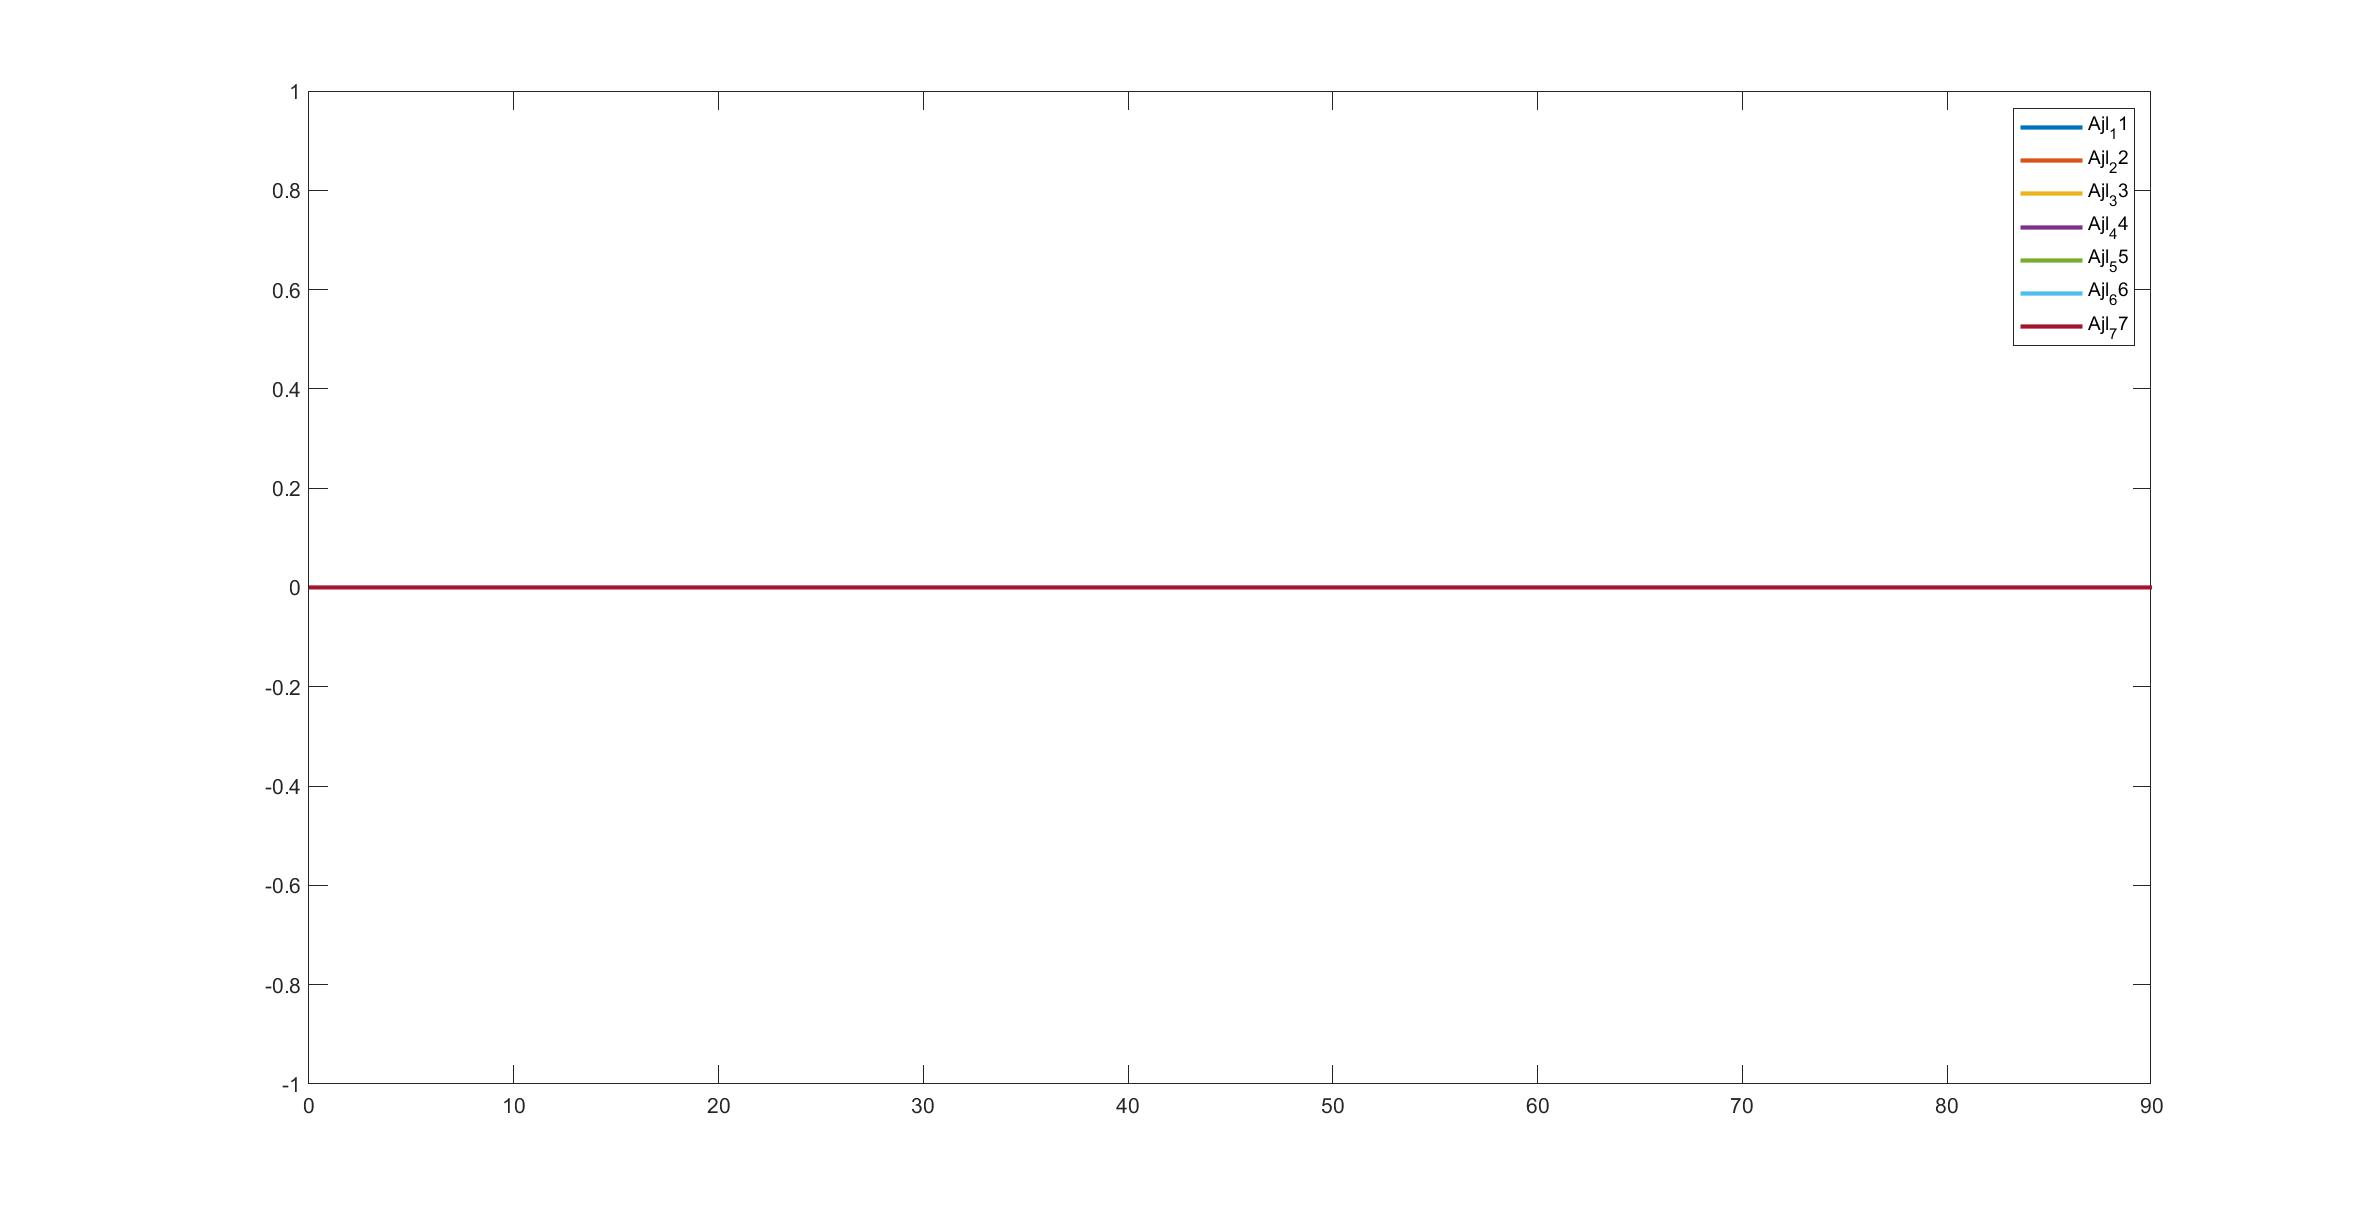
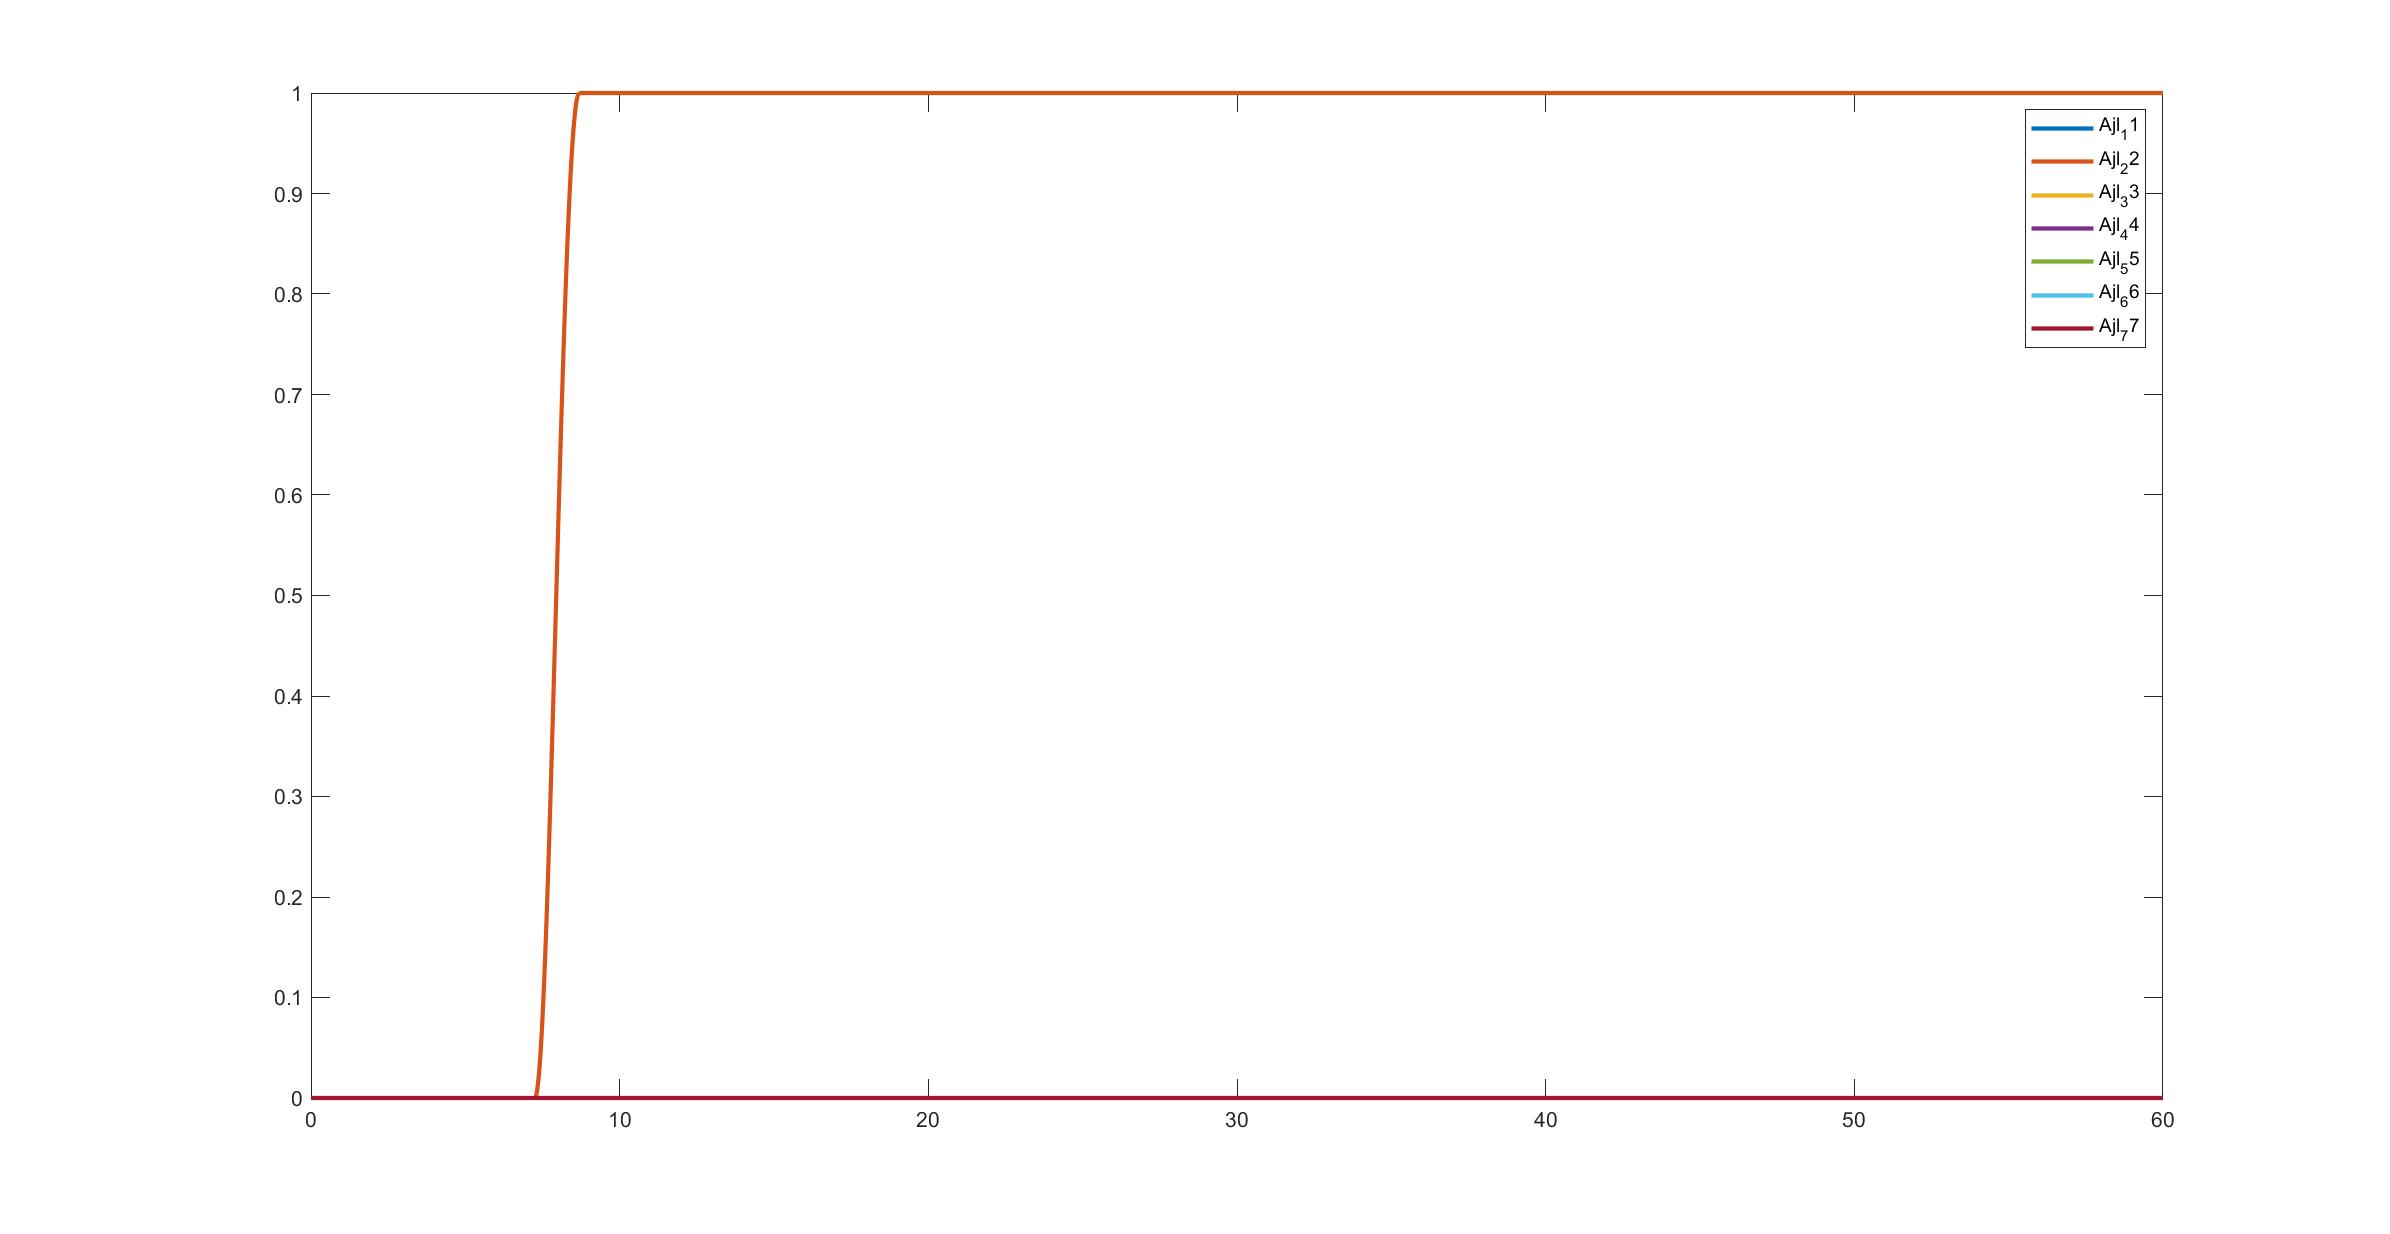
Ex5.2 added

Changed region(s): [[0.2178, 0.0624, 0.9024, 0.2808], [0.1245, 0.8736, 0.9024, 0.9048], [0.1245, 0.468, 0.9024, 0.4992]]

diff --git a/Cooperative_Matlab_Scripts/MainDexrov.m b/Cooperative_Matlab_Scripts/MainDexrov.m
@@ -6,7 +6,7 @@ close all
 
 % Simulation variables (integration and final time)
 deltat = 0.005;
-end_time = 15;
+end_time = 60;
 loop = 1;
 maxloops = ceil(end_time/deltat);
 
@@ -54,6 +54,11 @@ uvms.goalPosition = pipe_center + (pipe_radius + distanceGoalWrtPipe)*[0 0 1]';
 uvms.wRg = rotation(pi,0,0);
 uvms.wTg = [uvms.wRg uvms.goalPosition; 0 0 0 1];
 
+% Vehicle goal
+uvms.v_goalPosition=[pipe_center(1),pipe_center(2),pipe_center(3)+1.5]';
+uvms.wRgv = rotation(0,0,-pi/2);
+uvms.wTgv = [uvms.wRgv uvms.v_goalPosition; 0 0 0 1];
+
 % defines the tool control point
 uvms.eTt = eye(4);
 tic
@@ -70,10 +75,40 @@ for t = 0:deltat:end_time
     Qp = eye(13); 
     % add all the other tasks here!
     % the sequence of iCAT_task calls defines the priority
-    %[Qp, rhop] = iCAT_task(uvms.A.mu,   uvms.Jmu,   Qp, rhop, uvms.xdot.mu, 0.000001, 0.0001, 10);
-    [Qp, rhop] = iCAT_task(uvms.A.ha,   uvms.Jha,   Qp, rhop, uvms.xdot.ha, 0.0001,   0.01, 10);
-    [Qp, rhop] = iCAT_task(uvms.A.t,    uvms.Jt,    Qp, rhop, uvms.xdot.t,  0.0001,   0.01, 10);
+    
+
+
+    %% Joint limit control task (safety task)
+    [Qp, rhop] = iCAT_task(uvms.A.jl, uvms.J.jl, Qp, rhop, uvms.xdot.jl, 0.0001, 0.01, 10);
+
+
+
+    %% Minimum altitude control task (safety task)
+    [Qp, rhop] = iCAT_task(uvms.A.min_alt, uvms.Jalt, Qp, rhop, uvms.xdot.min_alt, 0.0001, 0.01, 10);
+
+    %% Horizontal Attitude control task (safety task)
+    [Qp, rhop] = iCAT_task(uvms.A.ha, uvms.Jha, Qp, rhop, uvms.xdot.ha, 0.0001, 0.01, 10);
+
+    %% "Safe Navigation action": Vehicle Position control task
+    [Qp, rhop] = iCAT_task(uvms.A.vang, uvms.Jvang, Qp, rhop, uvms.xdot.vang, 0.0001, 0.01, 10);
+    [Qp, rhop] = iCAT_task(uvms.A.vlin, uvms.Jvlin, Qp, rhop, uvms.xdot.vlin, 0.0001, 0.01, 10);
+
+    %% "Landing action" : Altitude control task
+    % control task to regulate the altitude to zero
+    %[Qp, rhop] = iCAT_task(uvms.A.alt_land, uvms.Jalt, Qp, rhop, uvms.xdot.alt_land, 0.0001, 0.01, 10);
+
+    %% "Allignment x_vehicle/rock action" : allignment control task
+    %[Qp, rhop] = iCAT_task(uvms.A.xi, uvms.Jxi, Qp, rhop, uvms.xdot.xi, 0.0001, 0.01, 10);
+
+    %% Vehicle Null velocity non-reactive control task
+    [Qp, rhop] = iCAT_task(uvms.A.null, uvms.Jnull, Qp, rhop, uvms.xdot.null, 0.0001, 0.01, 10);
+
+    %% Tool position control task
+    [Qp, rhop] = iCAT_task(uvms.A.t, uvms.Jt, Qp, rhop, uvms.xdot.t, 0.0001, 0.01, 10);
+    
+    %% Preferred configuration (first four joints)
     [Qp, rhop] = iCAT_task(uvms.A.PreferredConfig,    uvms.JPreferredConfig,    Qp, rhop, uvms.xdot.PreferredConfig,  0.0001,   0.01, 10);
+
     [Qp, rhop] = iCAT_task(eye(13),     eye(13),    Qp, rhop, zeros(13,1),  0.0001,   0.01, 10);    % this task should be the last one
     
     % get the two variables for integration
@@ -97,7 +132,7 @@ for t = 0:deltat:end_time
    
     % add debug prints here
     if (mod(t,0.1) == 0)
-        %t
+        t
         %uvms.p'
         uvms.q(1:4)
     end

diff --git a/Cooperative_Matlab_Scripts/UpdateMissionPhase.m b/Cooperative_Matlab_Scripts/UpdateMissionPhase.m
@@ -1,22 +1,22 @@
 function [uvms, mission] = UpdateMissionPhase(uvms, mission)
-%     switch mission.phase
-%         %two actions, therefore define 1 case which allow the switch
-%         %between one action and the other 
-%         
-%         case 1 
-%             %switch to allignment action when the goal for the vehicle is
-%             %achieved
-%             [w_ang, w_lin] = CartError(uvms.wTg, uvms.wTv);
-%             if (norm(w_lin) < 0.1) && (norm(w_ang) < 0.1)
-%                 %switch action
-%                 mission.phase = 2; 
-%                 uvms.time1 = mission.phase_time;
-%                 %update time 
-%                 mission.phase_time = 0; 
-%                 
-%                 
-%             end 
-%         case 2  
+    switch mission.phase
+        %two actions, therefore define 1 case which allow the switch
+        %between one action and the other 
+        
+        case 1 
+            %switch to allignment action when the goal for the vehicle is
+            %achieved
+            [w_ang, w_lin] = CartError(uvms.wTgv, uvms.wTv);
+            if (norm(w_lin) < 0.1) && (norm(w_ang) < 0.1)
+                %switch action
+                mission.phase = 2; 
+                uvms.time1 = mission.phase_time;
+                %update time 
+                mission.phase_time = 0; 
+                
+                
+            end 
+        case 2  
 % %             %switch to landing action when the vehicle is alligned with the
 % %             %rock 
 % %             if (norm(uvms.v_xi) < 0.1)

diff --git a/Cooperative_Matlab_Scripts/InitUVMS.m b/Cooperative_Matlab_Scripts/InitUVMS.m
@@ -1,5 +1,13 @@
 function [uvms] = InitUVMS(robotname)
 
+%%%%%%%%%%%%%%%%%%%%%
+wuRw = rotation(0,-pi/2,pi/2);
+u_pipe_center = [-10.66 31.47 -1.94]'; % in unity coordinates
+pipe_center = wuRw'*u_pipe_center;     % in world frame coordinates
+pipe_radius = 0.3;
+%%%%%%%%%%%%%%%%%%%%%%%
+
+
 % uvms.vTb
 % transformation matrix betwene the arm base wrt vehicle frame
 % expresses how the base of the arm is attached to the vehicle
@@ -18,9 +26,8 @@ uvms.q_dot = [0 0 0 0 0 0 0]';
 uvms.p_dot = [0 0 0 0 0 0]';
 
 % Constants for the minimum altitude control task
-uvms.min_dist = 1;
-buffer = 0.5;
-uvms.max_dist = uvms.min_dist + buffer;
+uvms.min_dist = pipe_center(3) - 3 * pipe_radius; 
+uvms.max_dist = uvms.min_dist + pipe_radius;
 
 %time mission for the plots
 uvms.time1 = 0; 
@@ -106,7 +113,7 @@ uvms.Aa.ha = eye(1);
 uvms.Aa.t = zeros(6); 
 uvms.Aa.alt_land = zeros(1); 
 uvms.Aa.xi = zeros(1);
-uvms.Aa.min_alt = zeros(1); 
+uvms.Aa.min_alt = zeros(); 
 uvms.Aa.null = 0;
 uvms.Aa.jl = zeros(); 
 %uvms.A.v_rho = zeros(3,1); 

diff --git a/Cooperative_Matlab_Scripts/ComputeTaskReferences.m b/Cooperative_Matlab_Scripts/ComputeTaskReferences.m
@@ -14,17 +14,17 @@ uvms.xdot.t(4:6) = Saturate(uvms.xdot.t(4:6), 0.2);
 %% Ex 1.1: reference for vehicle position control task 
 %%%%  Compute the reference for vehicle position control task 
 % Compute the Cartesian error between the goal frame and the vehicle frame with respect to the world frame
-%[w_ang, w_lin] = CartError(uvms.wTgv, uvms.wTv);
+[w_ang, w_lin] = CartError(uvms.wTgv, uvms.wTv);
 
 %attitude vehicle control task 
-%uvms.xdot.vang = Saturate(0.2 * w_ang, 0.3); 
+uvms.xdot.vang = Saturate(0.2 * w_ang, 0.3); 
 
 %position vehicle control task 
-%uvms.xdot.vlin = Saturate(0.2 * w_lin, 0.3);
+uvms.xdot.vlin = Saturate(0.2 * w_lin, 0.3);
 
-%uvms.xdot.v= 0.2*[w_lin; w_ang]; 
-%uvms.xdot.v(1:3)=Saturate(uvms.xdot.v(1:3),0.2);
-%uvms.xdot.v(4:6)=Saturate(uvms.xdot.v(4:6),0.2);
+uvms.xdot.v= 0.2*[w_lin; w_ang]; 
+uvms.xdot.v(1:3)=Saturate(uvms.xdot.v(1:3),0.2);
+uvms.xdot.v(4:6)=Saturate(uvms.xdot.v(4:6),0.2);
 
 %% reference for horizontal attitude
 uvms.xdot.ha = 0.2*(0-norm(uvms.v_rho));
